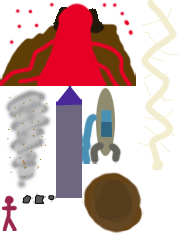
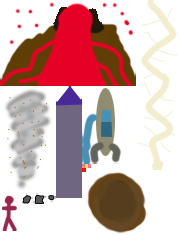
Debris, blood and limbs effect

Changed region(s): [[0.4494, 0.7149, 0.8427, 1.0], [0.4494, 0.6851, 0.5337, 0.7447]]

diff --git a/src/entity/enemy/AbstractEnemy.js b/src/entity/enemy/AbstractEnemy.js
@@ -5,6 +5,7 @@ import Enemies from 'structs/Enemies';
 import Counter from 'structs/Counter';
 import Depths from 'structs/Depths';
 import Events from 'structs/Events';
+import TransformHelpers from 'helpers/TransformHelpers';
 
 /**
  * @abstract
@@ -191,16 +192,29 @@ export default class AbstractEnemy extends Phaser.GameObjects.Container {
     }
 
     destroy () {
-        if (this.hp.get() <= 0 && this.type !== 'man') {
-            this.scene.effectManager.launchDebris(this.x, this.y, this.rotation);
-            this.scene.effectManager.launchDebris(this.x, this.y, this.rotation);
-            this.scene.effectManager.launchDebris(this.x, this.y, this.rotation);
-            this.scene.effectManager.launchDebris(this.x, this.y, this.rotation);
+        if (this.hp.get() <= 0) {
+            if (this.type !== 'man') {
+                this.spawnDebris(15);
+            } else {
+                this.spawnDebris(15, 'bloodCell');
+                this.spawnDebris(4, 'limb');
+            }
         }
         this.mineTimeEvent.destroy();
         this._canMine = false;
         this.hpText.destroy();
         super.destroy();
+    }
+
+    spawnDebris (count = 3, customImage = false) {
+        let angleOutOfCore = Planet.getRotationTowardPlanetCenter(this.x, this.y) - Math.PI / 2;
+
+        for (let i = 0; i < count; i++) {
+            let modifiedAngle = angleOutOfCore + Phaser.Math.DegToRad(Phaser.Math.RND.integerInRange(-80, 80));
+            let velocity = TransformHelpers.rotationToVelocity(modifiedAngle, Phaser.Math.RND.integerInRange(this.enemyData.particles.force[0], this.enemyData.particles.force[1]));
+            let centerOfObject = TransformHelpers.calcPivot(this.x, this.y, angleOutOfCore, this.enemyData.particles.height);
+            this.scene.effectManager.launchDebris(centerOfObject.x, centerOfObject.y, this.rotation, velocity.x, velocity.y, customImage);
+        }
     }
 
     static get ENEMY_TYPE_MAN () {

diff --git a/src/effects/BloodCell.js b/src/effects/BloodCell.js
@@ -3,9 +3,9 @@ import Depths from 'structs/Depths';
 import Planet from 'entity/planet/Planet';
 import GameConfig from 'GameConfig';
 
-export default class Debris extends Phaser.GameObjects.Image {
+export default class BloodCell extends Phaser.GameObjects.Image {
     constructor (scene) {
-        super(scene, -1000, -1000, 'assets', 'debris' + Phaser.Math.RND.integerInRange(1, 3));
+        super(scene, -1000, -1000, 'assets', 'bloodCell');
         this.scene.add.existing(this);
         this.setDepth(Depths.DEBRIS);
         this.setActive(false);
@@ -29,14 +29,9 @@ export default class Debris extends Phaser.GameObjects.Image {
      * @param {number} velocityX
      * @param {number} velocityY
      */
-    launch (x, y, rotation, velocityX = 0, velocityY = 0, customImage = false) {
-        if (customImage) {
-            this.setFrame(customImage);
-        } else {
-            this.setFrame('debris' + Phaser.Math.RND.integerInRange(1, 3));
-        }
+    launch (x, y, rotation, velocityX = 0, velocityY = 0) {
         this.setPosition(x, y);
-        this.setRotation(Phaser.Math.RND.rotation());
+        this.setRotation(rotation);
         this.setVisible(true);
         this.setActive(true);
         this.setScale(1, 1);

diff --git a/src/structs/Enemies.js b/src/structs/Enemies.js
@@ -15,20 +15,32 @@ export default {
             type: 'man',
             name: 'Man',
             hp: 1,
-            damage: 1
+            damage: 1,
+            particles: {
+                height: 20,
+                force: [50, 180]
+            }
         },
         {
             type: 'landing_ship', //AbstractEnemy.ENEMY_TYPE_LANDING_SHIP,
             name: 'Transport ship',
             hp: 8,
-            damage: 1
+            damage: 1,
+            particles: {
+                height: 55,
+                force: [50, 450]
+            }
         },
         {
             type: 'mining_ship', //AbstractEnemy.ENEMY_TYPE_LANDING_SHIP,
             name: 'Mining ship',
             hp: 15,
             damage: 15,
-            waitBeforeLaunchTime: 20000
+            waitBeforeLaunchTime: 20000,
+            particles: {
+                height: 55,
+                force: [50, 450]
+            }
         }
     ],
     /**

diff --git a/src/effects/EffectManager.js b/src/effects/EffectManager.js
@@ -174,9 +174,11 @@ export default class EffectManger {
      * @param {number} x
      * @param {number} y
      * @param {number} rotation
+     * @param {number} velocityX
+     * @param {number} velocityY
      * @return {Debris}
      */
-    launchDebris (x, y, rotation) {
+    launchDebris (x, y, rotation, velocityX = 0, velocityY = 0, customImage = false) {
         let group = this.debrisGroup;
         /** @type {FlyText} */
         let effect = group.getFirstDead();
@@ -184,7 +186,7 @@ export default class EffectManger {
             effect = new Debris(this.scene);
             group.add(effect);
         }
-        effect.launch(x, y, rotation);
+        effect.launch(x, y, rotation, velocityX, velocityY, customImage);
         return effect;
     }
 

diff --git a/src/helpers/TransformHelpers.js b/src/helpers/TransformHelpers.js
@@ -56,4 +56,16 @@ export default class TransformHelpers {
 
         return Math.sqrt(dx * dx + dy * dy);
     }
+
+    /**
+     * @param {number} rotation
+     * @param {number} speed
+     * @return {{x: number, y: number}}
+     */
+    static rotationToVelocity (rotation, speed) {
+        return {
+            x: speed * Math.cos(rotation),
+            y: speed * Math.sin(rotation)
+        };
+    }
 }

diff --git a/src/main.js b/src/main.js
@@ -28,7 +28,7 @@ const config = {
         //     attractors: true
         // },
         arcade: {
-            debug: true
+            debug: false
         }
     },
     antialias: true,
